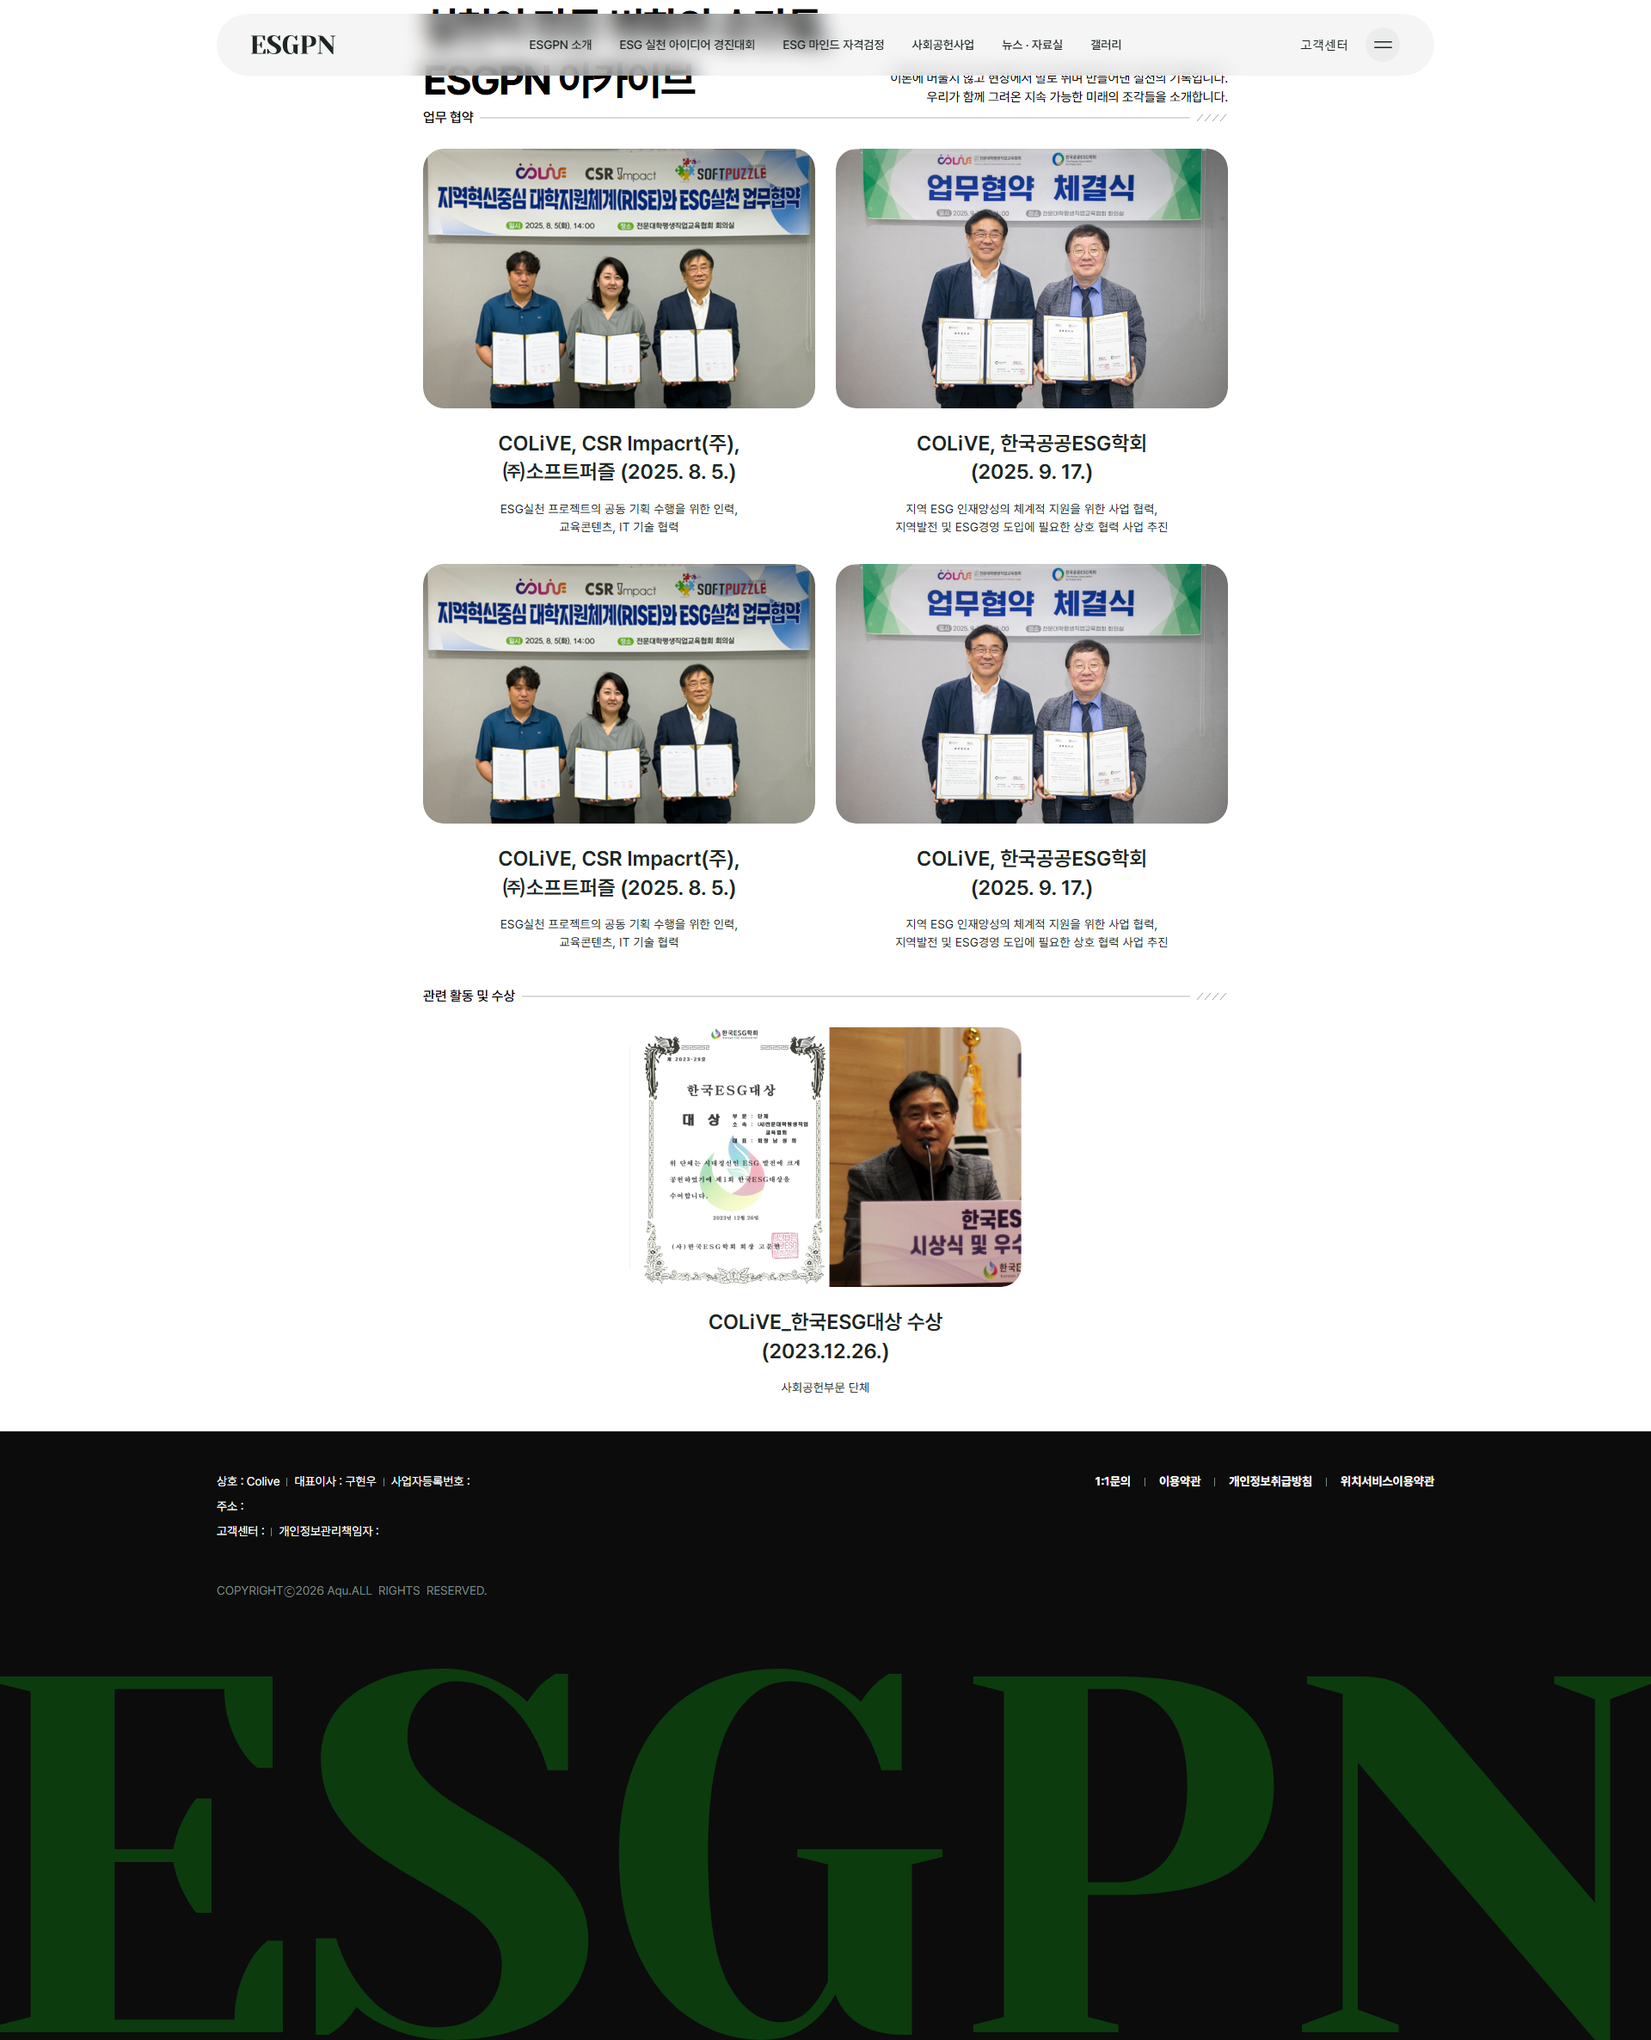
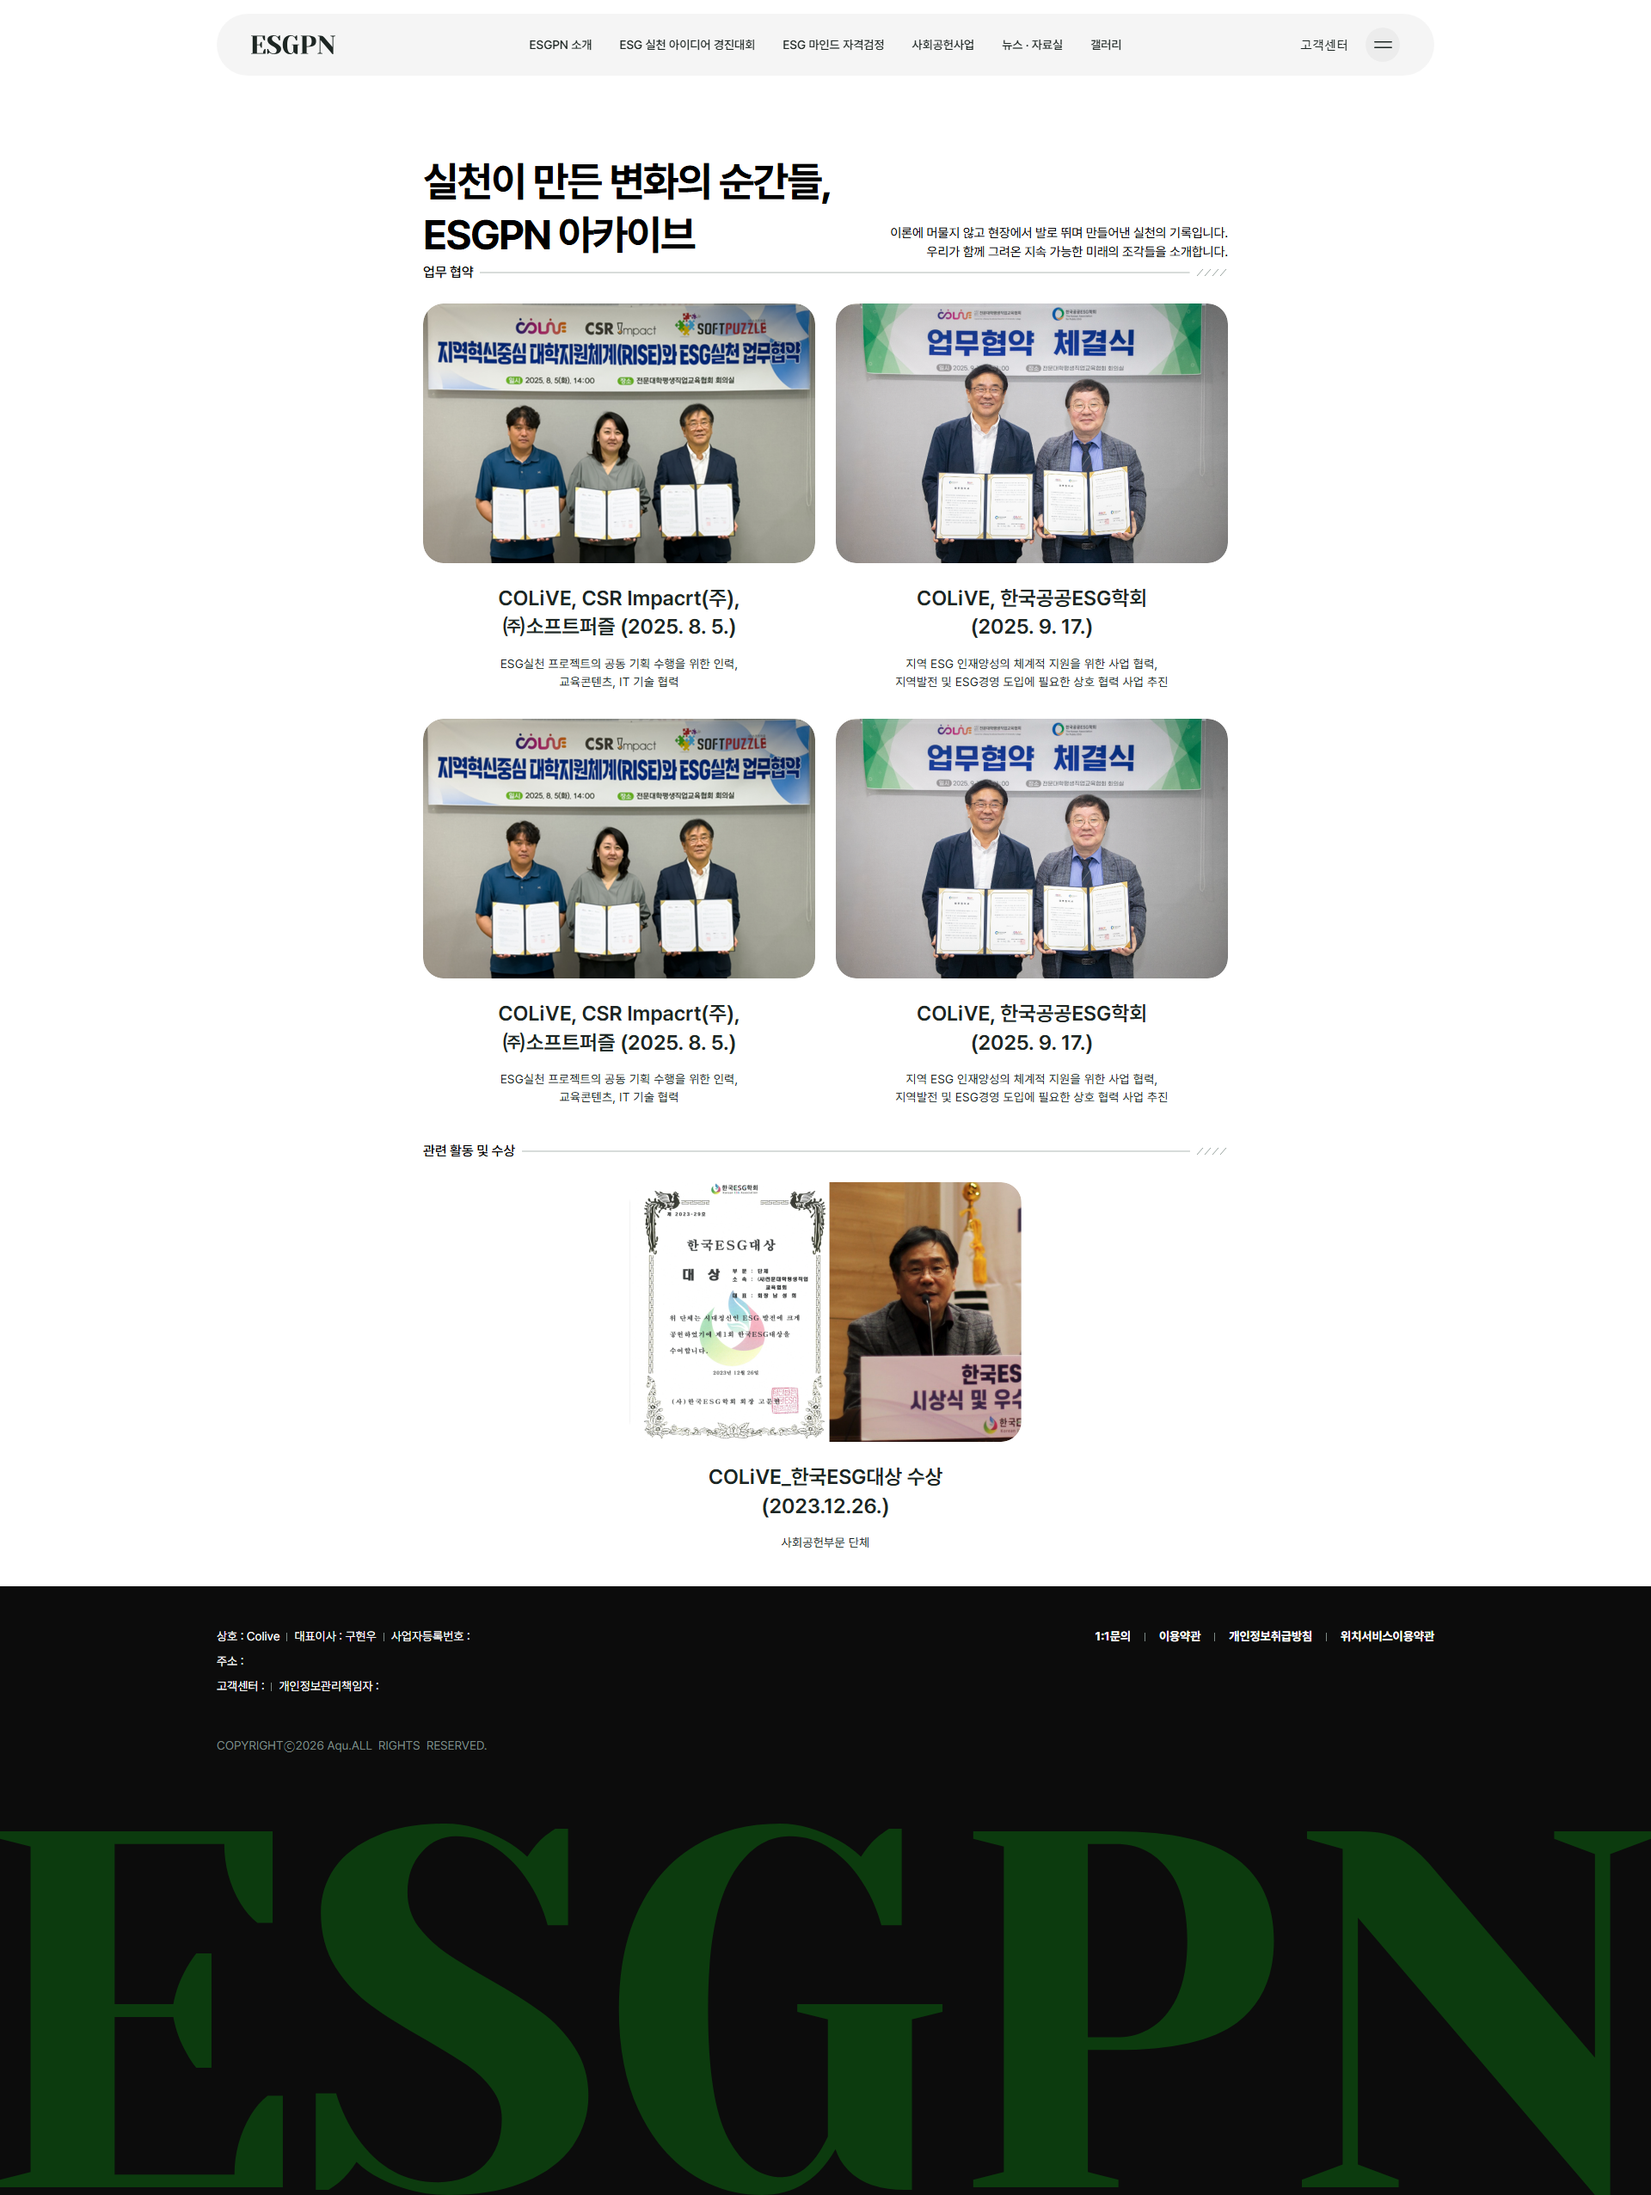
fix(pages): 체리픽 페이지 Header fixed clearance 추가
/gallery, /news, /news/:id 첫 섹션이 Header(fixed top-4, 0-88)에 가려져
Figma 절대 page-y 기준 pt 내장.

## 수정 (Figma page-y 근거)

- GalleryTitle:          pt-[180px] (research/gallery.md 314:6837)
- NewsTabs:              pt-[140px] (research/news.md 129:2196)
- NewsDetailBreadcrumb:  pt-[140px] (research/news-detail.md 134:4156)

## Preview 라우트 대응

기존 baseline 호환 위해 overflow-hidden + -mt-[pt] wrapper:
- GalleryTitlePreview       -mt-[180px]
- NewsTabsPreview           -mt-[140px]
- NewsDetailBreadcrumbPreview -mt-[140px]

## 검증

- typecheck clean
- G1 회귀 없음:
  * gallery-title: 8.28% (변동 0)
  * news-tabs: 2.26% (변동 -0.18)
  * news-detail-breadcrumb: 1.45% (변동 0)
- audit 스크린샷 3개 Header 밑으로 정상 내려옴

## 참고 (fix 불필요)

- /certification: Hero full-bleed 의도. Header는 반투명으로 위에 floating.
  Contest Hero와 동일 패턴.
- 다른 섹션들은 첫 섹션 이후라 Header clearance 필요 없음.

diff --git a/src/routes/NewsDetailPreviews.tsx b/src/routes/NewsDetailPreviews.tsx
@@ -3,7 +3,19 @@ import { NewsDetailArticle } from "@/components/sections/NewsDetailArticle";
 import { NewsDetailRelated } from "@/components/sections/NewsDetailRelated";
 import { NewsDetailBack } from "@/components/sections/NewsDetailBack";
 
-export function NewsDetailBreadcrumbPreview() { return <NewsDetailBreadcrumb />; }
+/**
+ * v3: NewsDetailBreadcrumb은 Header clearance 위해 pt-[140px] 내장.
+ * Preview는 -mt-[140px]로 상쇄, 기존 baseline(936×24)과 1:1 비교.
+ */
+export function NewsDetailBreadcrumbPreview() {
+  return (
+    <div className="overflow-hidden">
+      <div className="-mt-[140px]">
+        <NewsDetailBreadcrumb />
+      </div>
+    </div>
+  );
+}
 export function NewsDetailArticlePreview() { return <NewsDetailArticle />; }
 export function NewsDetailRelatedPreview() { return <NewsDetailRelated />; }
 export function NewsDetailBackPreview() { return <NewsDetailBack />; }

diff --git a/src/components/sections/GalleryTitle/GalleryTitle.tsx b/src/components/sections/GalleryTitle/GalleryTitle.tsx
@@ -1,12 +1,14 @@
 /**
  * GalleryTitle — gallery 페이지 타이틀 섹션 (Figma Node 314:6837)
- * 936×124, 순수 타이포(에셋 0개).
+ * 936×124, 순수 타이포(에셋 0개). Figma 절대 page-y=180.
  * 좌: Pretendard Bold 48px / 우: Pretendard Regular 15px, text-right, flex-1.
  * "ESPGN"(Figma 원본 오타) → "ESGPN"(프로젝트 공식 표기)로 교정.
+ *
+ * v3: Header fixed(0-88) clearance + Figma page-y=180 위치 반영하여 pt-[180px] 내장.
  */
 export function GalleryTitle() {
   return (
-    <section className="w-[936px] mx-auto">
+    <section className="w-[936px] mx-auto pt-[180px]">
       <div className="flex gap-[32px] items-end">
         <h3 className="font-['Pretendard_Variable'] font-bold text-[48px] leading-[1.3] tracking-[-1.92px] text-black whitespace-nowrap">
           실천이 만든 변화의 순간들,<br />

diff --git a/src/components/sections/NewsDetailBreadcrumb/NewsDetailBreadcrumb.tsx b/src/components/sections/NewsDetailBreadcrumb/NewsDetailBreadcrumb.tsx
@@ -1,10 +1,11 @@
 /**
  * NewsDetailBreadcrumb — 뉴스 상세 Breadcrumb (Figma 134:4156).
- * 936×24. ← 화살표 + "뉴스" 링크.
+ * 936×24. ← 화살표 + "뉴스" 링크. Figma 절대 page-y=140.
+ * v3: pt-[140px] 내장 (Header fixed clearance).
  */
 export function NewsDetailBreadcrumb() {
   return (
-    <nav aria-label="뉴스 경로" className="mx-auto flex w-[936px] items-center">
+    <nav aria-label="뉴스 경로" className="mx-auto flex w-[936px] items-center pt-[140px]">
       <a href="/news" className="flex items-center gap-[4px] text-[#1d2623]">
         <svg width="24" height="24" viewBox="0 0 24 24" fill="none" aria-hidden="true">
           <path d="M15 6l-6 6 6 6" stroke="#1d2623" strokeWidth="1.5" strokeLinecap="round" strokeLinejoin="round" />

diff --git a/src/components/sections/NewsTabs/NewsTabs.tsx b/src/components/sections/NewsTabs/NewsTabs.tsx
@@ -4,14 +4,16 @@ import { SectionTabs } from "@/components/ui/SectionTabs";
  * NewsTabs — 뉴스 페이지 상단 탭 (Figma 129:2196).
  * 936×29. SectionTabs 재사용. "뉴스" / "자료실" 2탭, "뉴스" active.
  * gap 9px (tabs 간격) — 노드 트리상 401→466 = 65, 첫 탭 width 57 + gap 8.
+ * Figma 절대 page-y=140.
  *
  * 단 SectionTabs 기본 gap=52라 다름 — 뉴스 페이지 전용 inline 사용.
+ * v3: pt-[140px] 내장 (Header fixed clearance + Figma page-y 정렬).
  */
 export function NewsTabs() {
   return (
     <section
       aria-label="뉴스 카테고리"
-      className="mx-auto flex w-[936px] justify-center"
+      className="mx-auto flex w-[936px] justify-center pt-[140px]"
     >
       <SectionTabs
         tabs={[

diff --git a/src/routes/GalleryTitlePreview.tsx b/src/routes/GalleryTitlePreview.tsx
@@ -2,9 +2,16 @@ import { GalleryTitle } from "@/components/sections/GalleryTitle";
 
 /**
  * __preview/gallery-title — G1 픽셀 비교용 격리 라우트.
- * baseline: figma-screenshots/gallery-title.png (936×124).
- * 섹션 자체가 w-[936px] mx-auto → 1920 viewport 중앙정렬 → clip 492,0,936,124.
+ *
+ * v3: GalleryTitle은 Header clearance 위해 pt-[180px] 내장 (Figma page-y=180).
+ * Preview에서는 Header 없으므로 -mt-[180px]로 pt 상쇄, baseline(936×124)과 1:1 비교.
  */
 export function GalleryTitlePreview() {
-  return <GalleryTitle />;
+  return (
+    <div className="overflow-hidden">
+      <div className="-mt-[180px]">
+        <GalleryTitle />
+      </div>
+    </div>
+  );
 }

diff --git a/src/routes/NewsTabsPreview.tsx b/src/routes/NewsTabsPreview.tsx
@@ -1,2 +1,15 @@
 import { NewsTabs } from "@/components/sections/NewsTabs";
-export function NewsTabsPreview() { return <NewsTabs />; }
+
+/**
+ * __preview/news-tabs — G1 픽셀 비교용.
+ * v3: NewsTabs pt-[140px] 내장 → Preview -mt-[140px]로 상쇄.
+ */
+export function NewsTabsPreview() {
+  return (
+    <div className="overflow-hidden">
+      <div className="-mt-[140px]">
+        <NewsTabs />
+      </div>
+    </div>
+  );
+}
